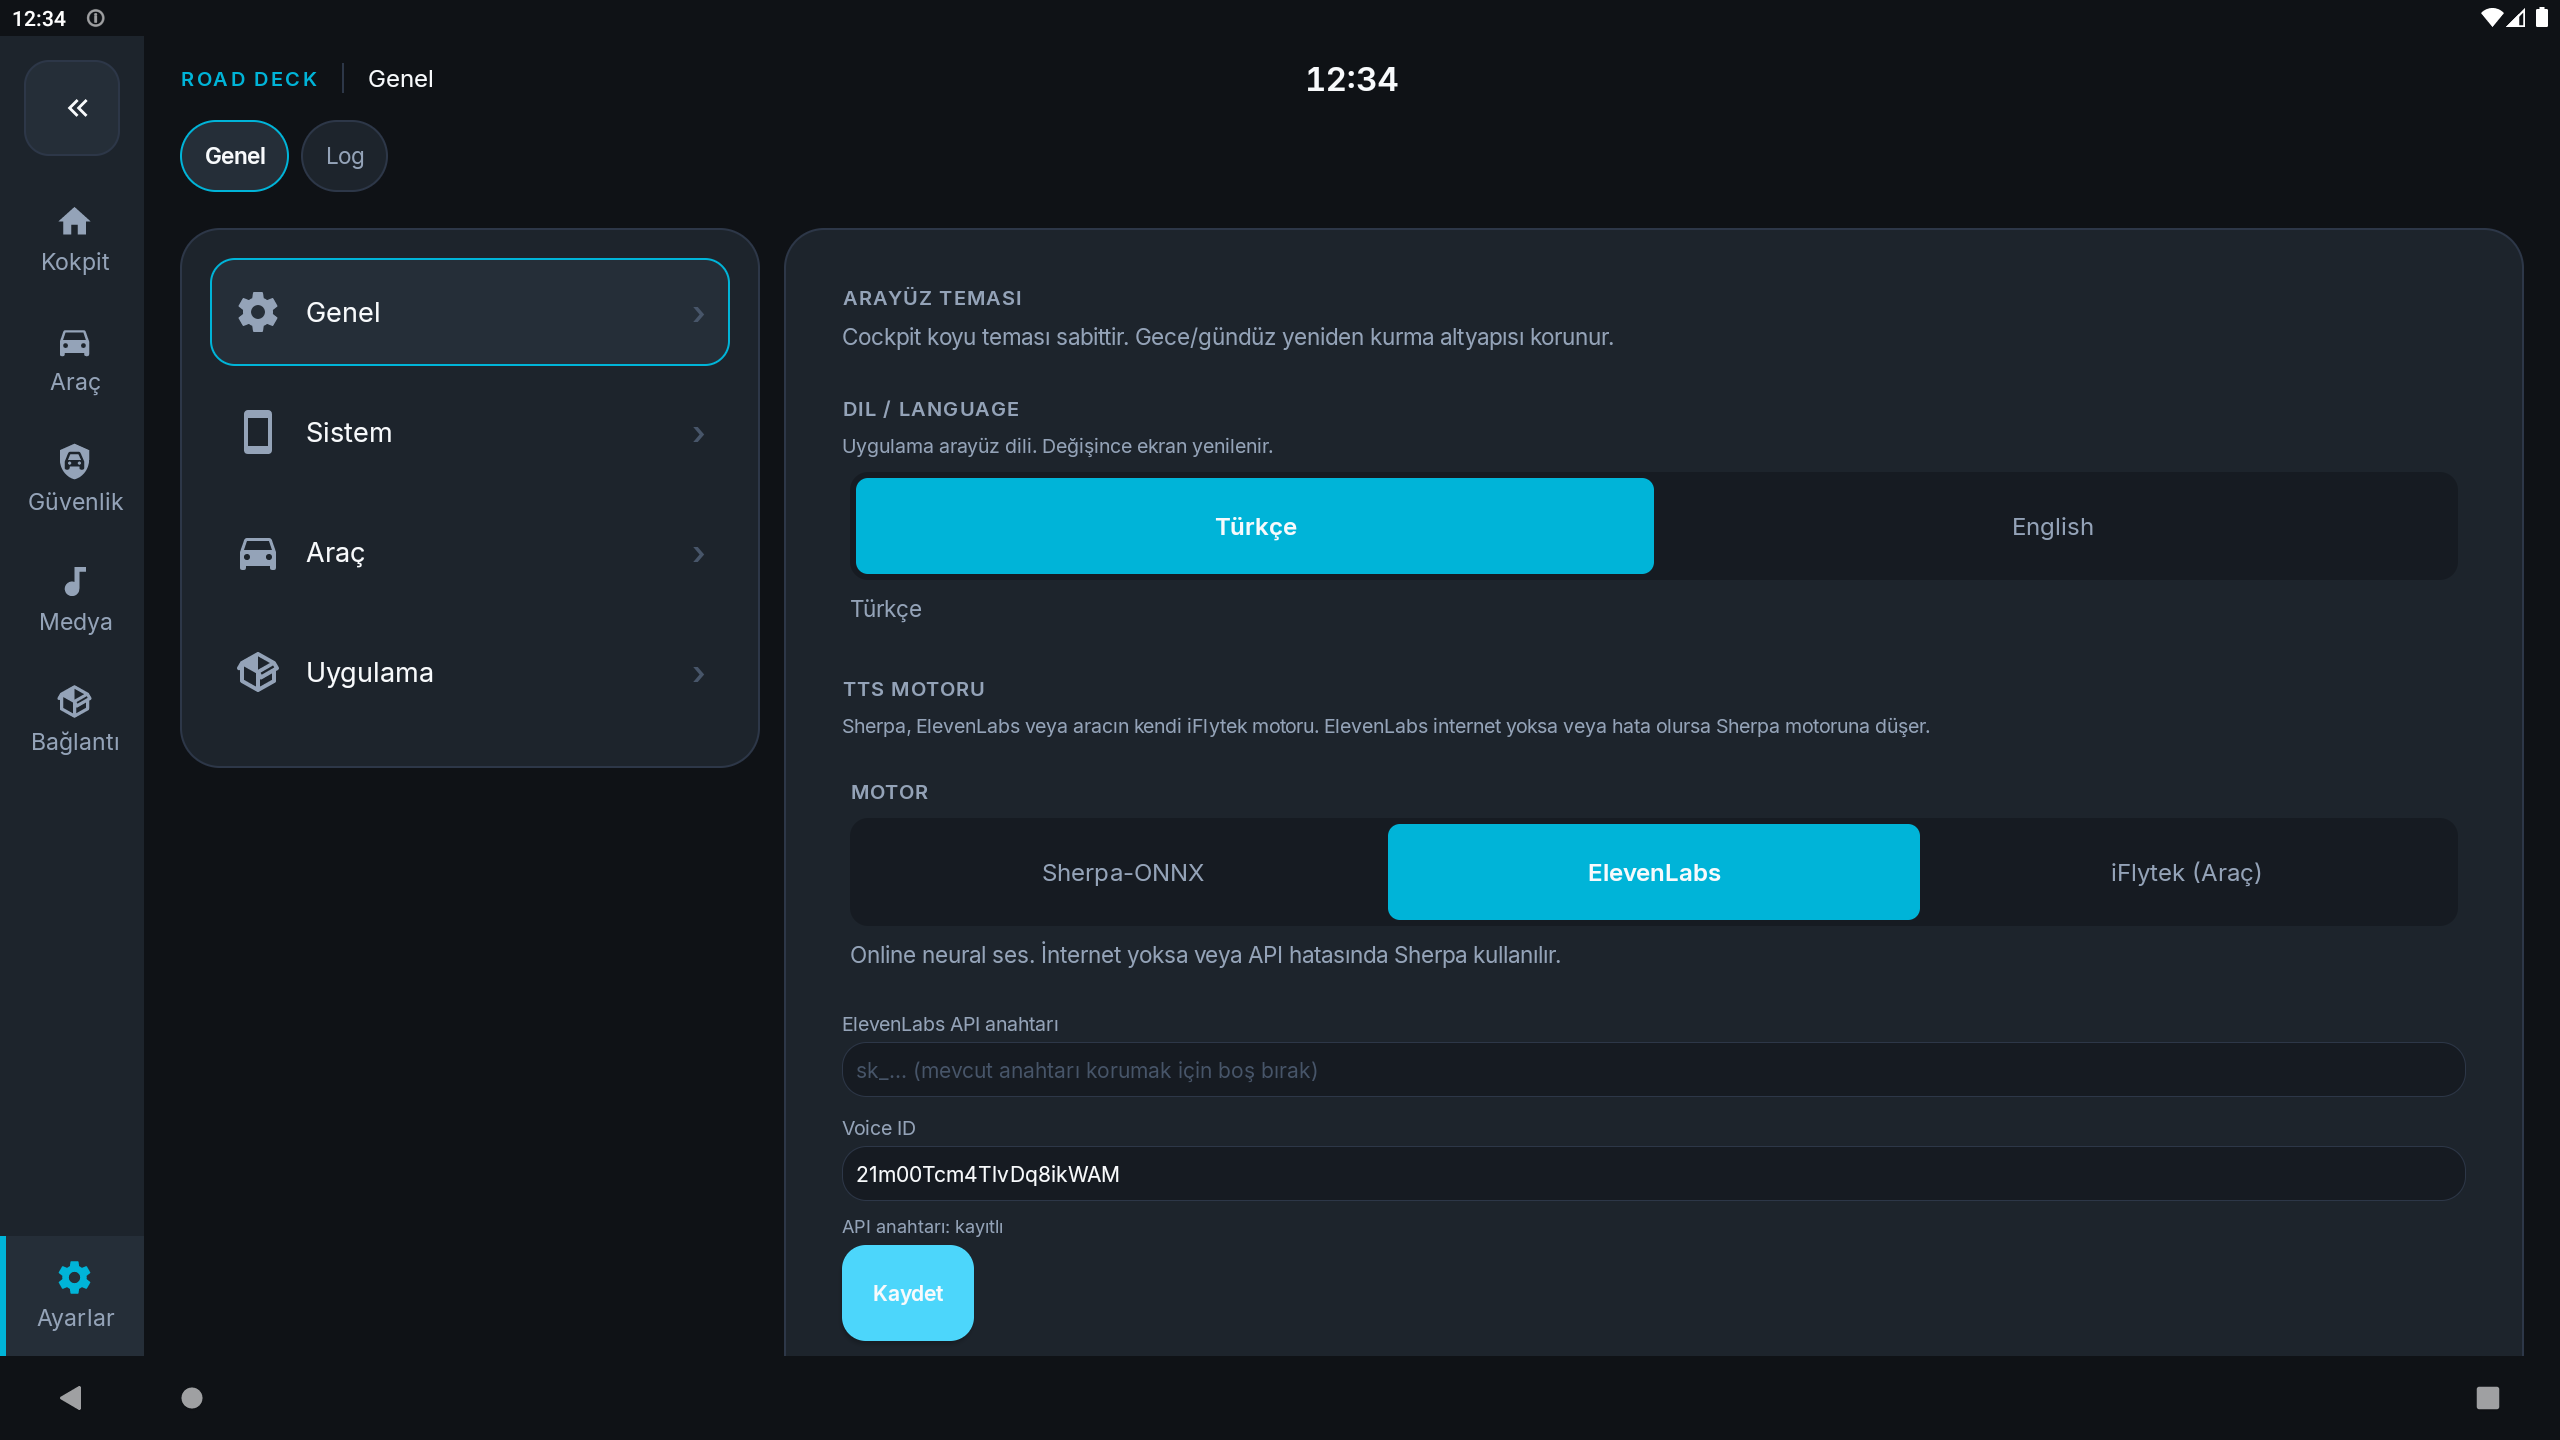
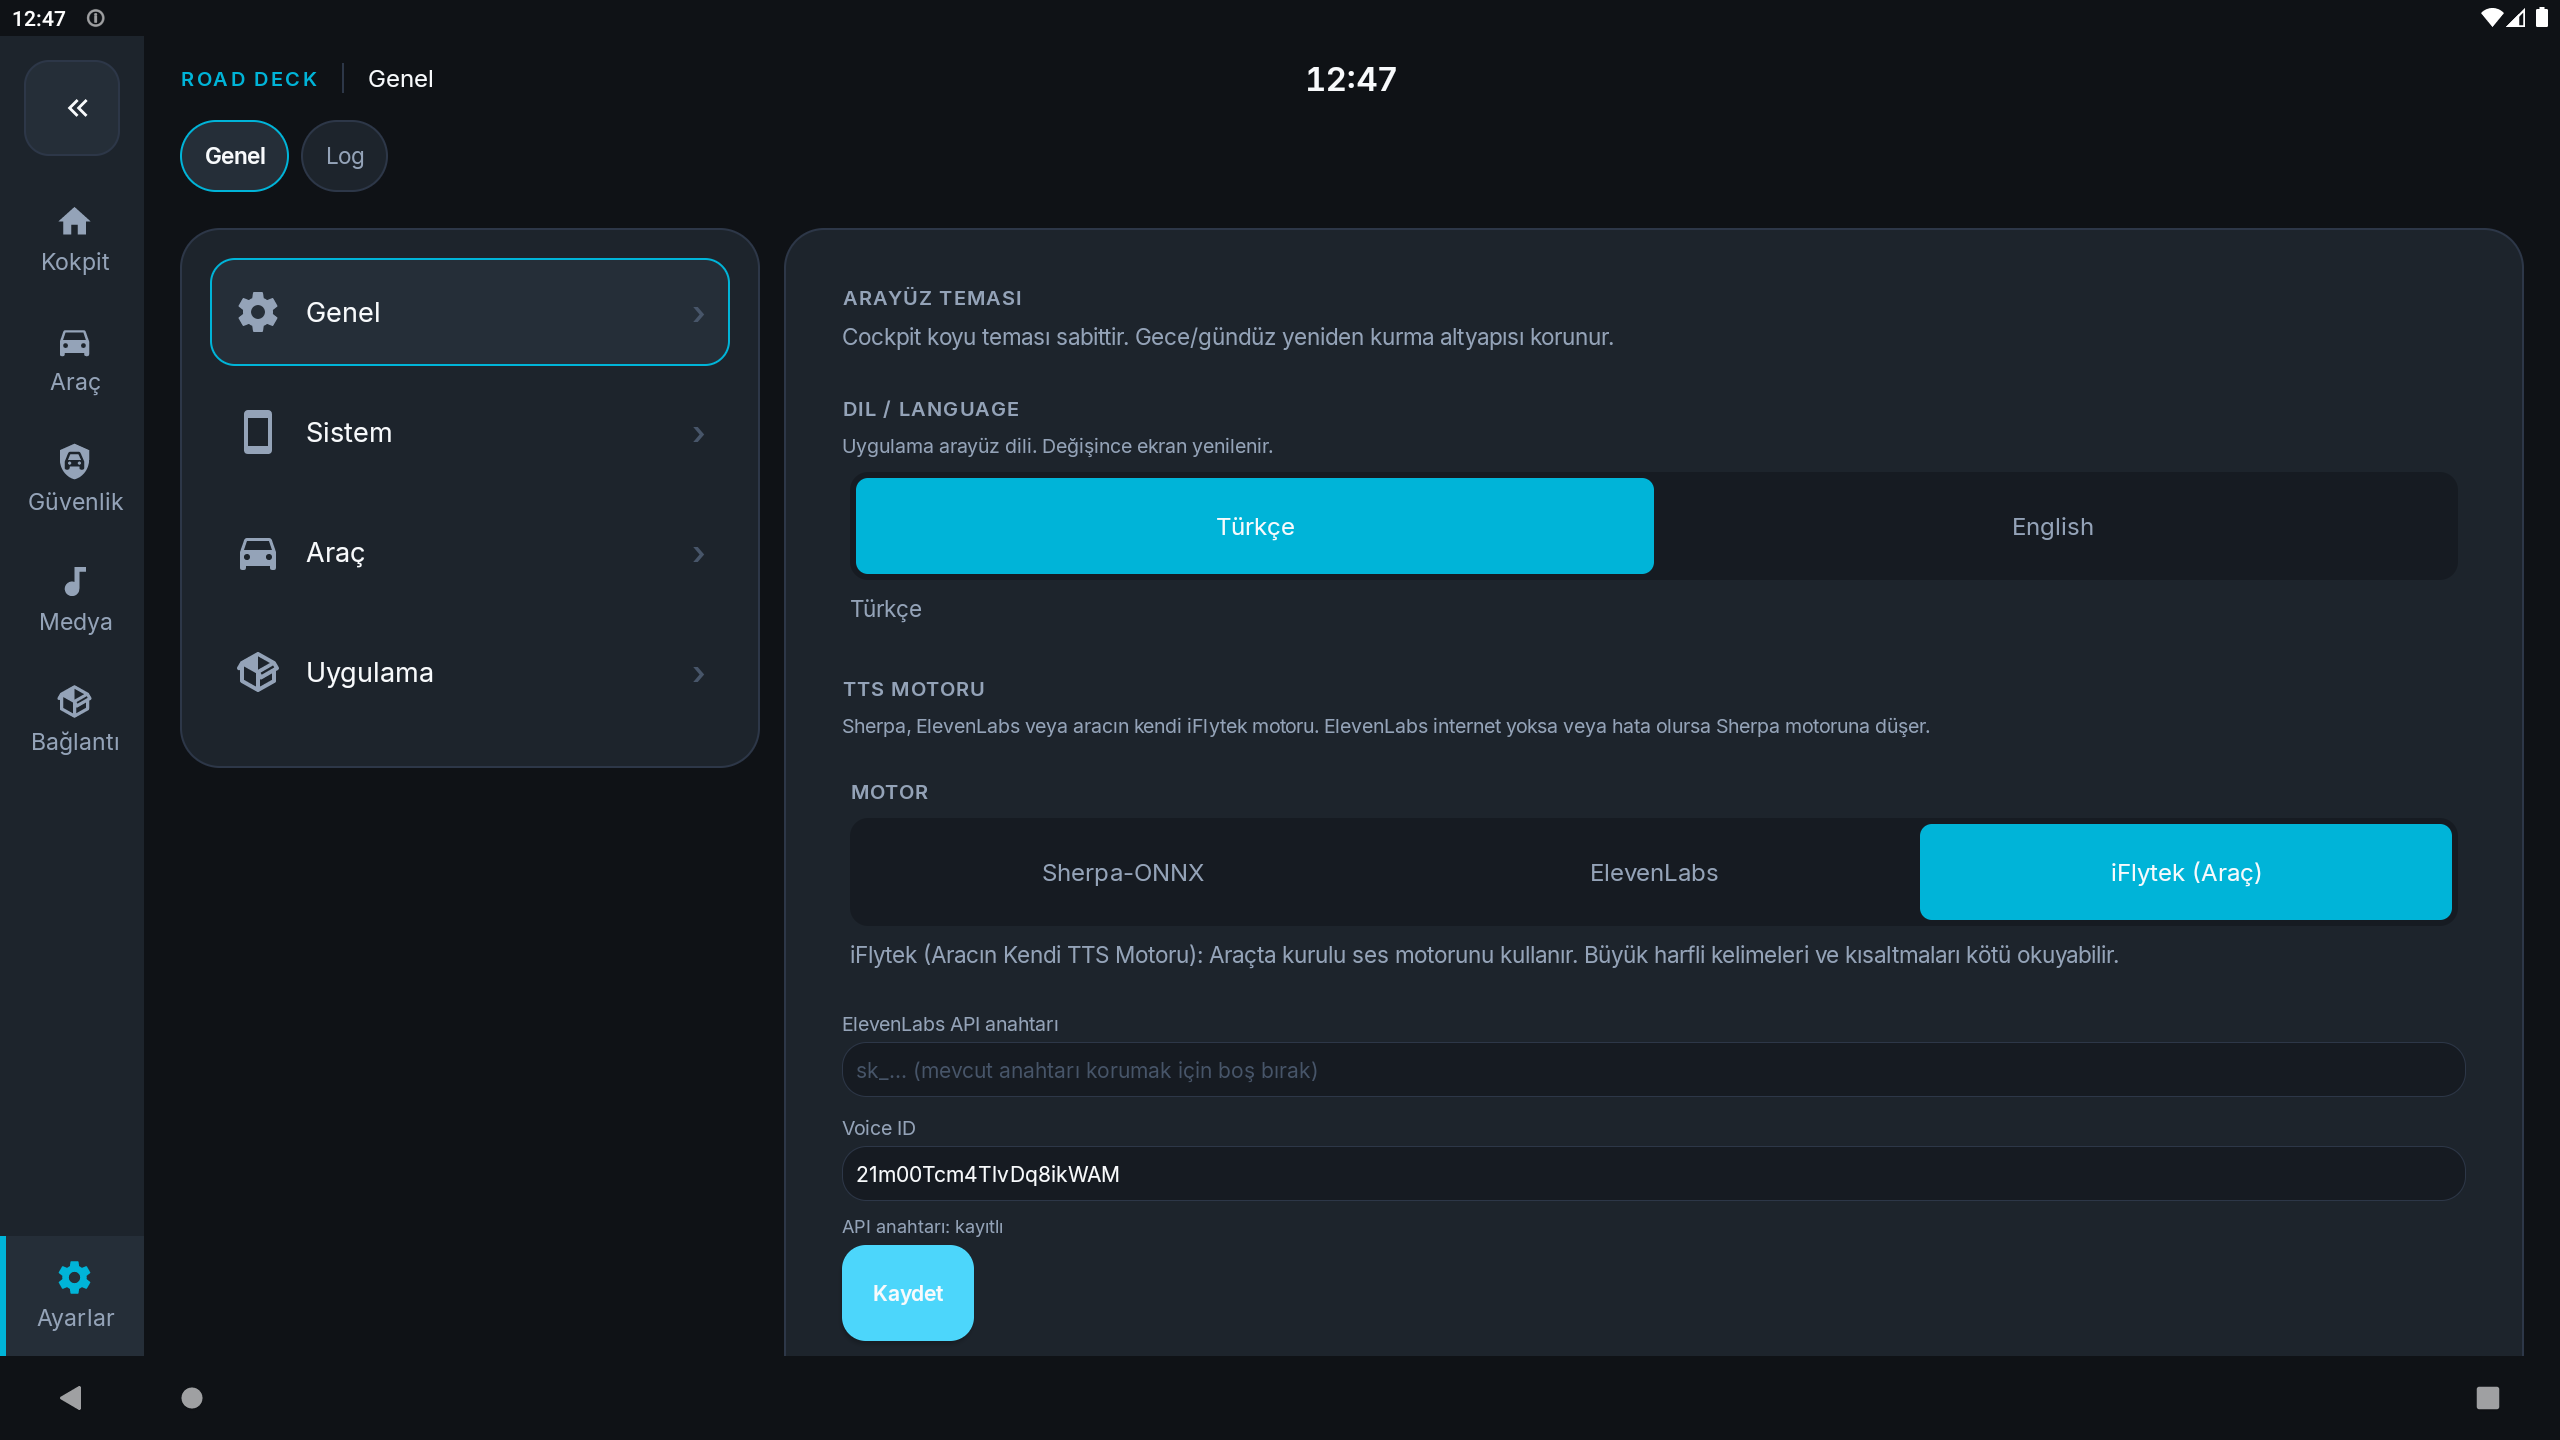
fix: segmented seciminde font ailesi/agirligi degismiyor
- UiStyles binary/ternary refresh artik Inter medium kullaniyor; Roboto'ya donus yok
- Secili/secilmeyen yalniz renk ve zeminle ayriliyor
- Segment basliklari LabelCaps
- Camera360Ui secim chip'i de sabit Inter medium

Changed region(s): [[0.3438, 0.5625, 0.9688, 0.6875], [0.5312, 0.0312, 0.5625, 0.0625], [0.4688, 0.3438, 0.5, 0.375]]

diff --git a/app/src/main/java/com/mapcontrol/ui/theme/UiStyles.java b/app/src/main/java/com/mapcontrol/ui/theme/UiStyles.java
@@ -245,9 +245,7 @@ public final class UiStyles {
         if (title != null && !title.isEmpty()) {
             TextView rowTitle = new TextView(context);
             rowTitle.setText(title);
-            rowTitle.setTextSize(18);
-            rowTitle.setTextColor(UiStyles.color(context, R.color.textPrimary));
-            rowTitle.setTypeface(CockpitTokens.inter(context, CockpitTokens.WEIGHT_SEMIBOLD));
+            CockpitTokens.labelCaps(rowTitle);
             int hPad = dimenPx(context, R.dimen.spacing_medium);
             rowTitle.setPadding(hPad, dimenPx(context, R.dimen.spacing_medium), hPad,
                     dimenPx(context, R.dimen.spacing_small));
@@ -279,7 +277,7 @@ public final class UiStyles {
         TextView help = new TextView(context);
         help.setTextSize(15);
         help.setTextColor(UiStyles.color(context, R.color.textSecondary));
-        help.setTypeface(CockpitTokens.inter(context, CockpitTokens.WEIGHT_REGULAR));
+        help.setTypeface(CockpitTokens.inter(context, CockpitTokens.WEIGHT_MEDIUM));
         int hPad = dimenPx(context, R.dimen.spacing_medium);
         help.setPadding(hPad, dimenPx(context, R.dimen.spacing_small), hPad,
                 dimenPx(context, R.dimen.spacing_medium));
@@ -290,19 +288,19 @@ public final class UiStyles {
             if (on) {
                 setBackgroundRes(left, R.drawable.bg_segment_thumb);
                 left.setTextColor(color(context, R.color.textPrimary));
-                left.setTypeface(null, android.graphics.Typeface.BOLD);
+                left.setTypeface(CockpitTokens.inter(context, CockpitTokens.WEIGHT_MEDIUM));
                 right.setBackgroundColor(Color.TRANSPARENT);
                 right.setTextColor(color(context, R.color.textSecondary));
-                right.setTypeface(null, android.graphics.Typeface.NORMAL);
+                right.setTypeface(CockpitTokens.inter(context, CockpitTokens.WEIGHT_MEDIUM));
                 help.setText(buildOptionsHelp(context, new String[]{leftLabel, rightLabel},
                         new String[]{leftHelp, rightHelp}, 0));
             } else {
                 setBackgroundRes(right, R.drawable.bg_segment_thumb);
                 right.setTextColor(color(context, R.color.textPrimary));
-                right.setTypeface(null, android.graphics.Typeface.BOLD);
+                right.setTypeface(CockpitTokens.inter(context, CockpitTokens.WEIGHT_MEDIUM));
                 left.setBackgroundColor(Color.TRANSPARENT);
                 left.setTextColor(color(context, R.color.textSecondary));
-                left.setTypeface(null, android.graphics.Typeface.NORMAL);
+                left.setTypeface(CockpitTokens.inter(context, CockpitTokens.WEIGHT_MEDIUM));
                 help.setText(buildOptionsHelp(context, new String[]{leftLabel, rightLabel},
                         new String[]{leftHelp, rightHelp}, 1));
             }
@@ -415,9 +413,7 @@ public final class UiStyles {
         if (title != null && !title.isEmpty()) {
             TextView rowTitle = new TextView(context);
             rowTitle.setText(title);
-            rowTitle.setTextSize(18);
-            rowTitle.setTextColor(UiStyles.color(context, R.color.textPrimary));
-            rowTitle.setTypeface(CockpitTokens.inter(context, CockpitTokens.WEIGHT_SEMIBOLD));
+            CockpitTokens.labelCaps(rowTitle);
             int hPad = dimenPx(context, R.dimen.spacing_medium);
             rowTitle.setPadding(hPad, dimenPx(context, R.dimen.spacing_medium), hPad,
                     dimenPx(context, R.dimen.spacing_small));
@@ -448,7 +444,7 @@ public final class UiStyles {
         TextView help = new TextView(context);
         help.setTextSize(15);
         help.setTextColor(UiStyles.color(context, R.color.textSecondary));
-        help.setTypeface(CockpitTokens.inter(context, CockpitTokens.WEIGHT_REGULAR));
+        help.setTypeface(CockpitTokens.inter(context, CockpitTokens.WEIGHT_MEDIUM));
         int hPad = dimenPx(context, R.dimen.spacing_medium);
         help.setPadding(hPad, dimenPx(context, R.dimen.spacing_small), hPad,
                 dimenPx(context, R.dimen.spacing_medium));
@@ -469,11 +465,11 @@ public final class UiStyles {
                 if (i == idx) {
                     setBackgroundRes(tv, R.drawable.bg_segment_thumb);
                     tv.setTextColor(UiStyles.color(context, R.color.textPrimary));
-                    tv.setTypeface(null, android.graphics.Typeface.BOLD);
+                    tv.setTypeface(CockpitTokens.inter(context, CockpitTokens.WEIGHT_MEDIUM));
                 } else {
                     tv.setBackgroundColor(Color.TRANSPARENT);
                     tv.setTextColor(UiStyles.color(context, R.color.textSecondary));
-                    tv.setTypeface(null, android.graphics.Typeface.NORMAL);
+                    tv.setTypeface(CockpitTokens.inter(context, CockpitTokens.WEIGHT_MEDIUM));
                 }
             }
             help.setText(buildOptionsHelp(context, labels, helps, idx));

diff --git a/app/src/main/java/com/mapcontrol/ui/builder/Camera360Ui.java b/app/src/main/java/com/mapcontrol/ui/builder/Camera360Ui.java
@@ -18,6 +18,7 @@ import android.widget.TextView;
 import androidx.core.content.ContextCompat;
 
 import com.mapcontrol.R;
+import com.mapcontrol.ui.cockpit.CockpitTokens;
 import com.mapcontrol.ui.theme.UiStyles;
 
 import java.util.function.IntConsumer;
@@ -286,7 +287,7 @@ final class Camera360Ui {
                     items[i].setBackgroundColor(Color.TRANSPARENT);
                 }
                 items[i].setTextColor(ui.themeColor(on ? R.color.textPrimary : R.color.textSecondary));
-                items[i].setTypeface(null, on ? Typeface.BOLD : Typeface.NORMAL);
+                items[i].setTypeface(CockpitTokens.inter(items[i].getContext(), CockpitTokens.WEIGHT_MEDIUM));
             }
         }
     }
